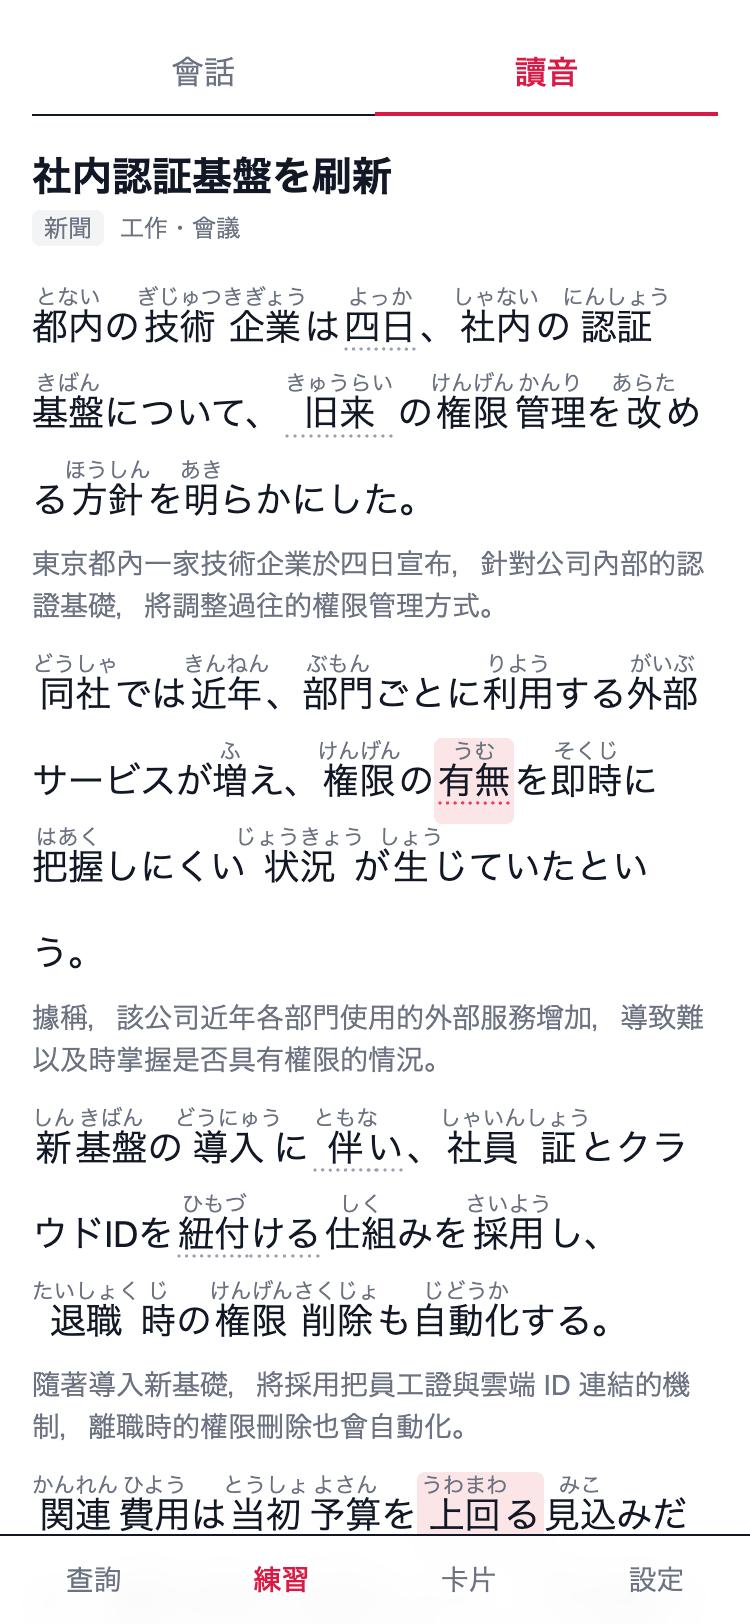
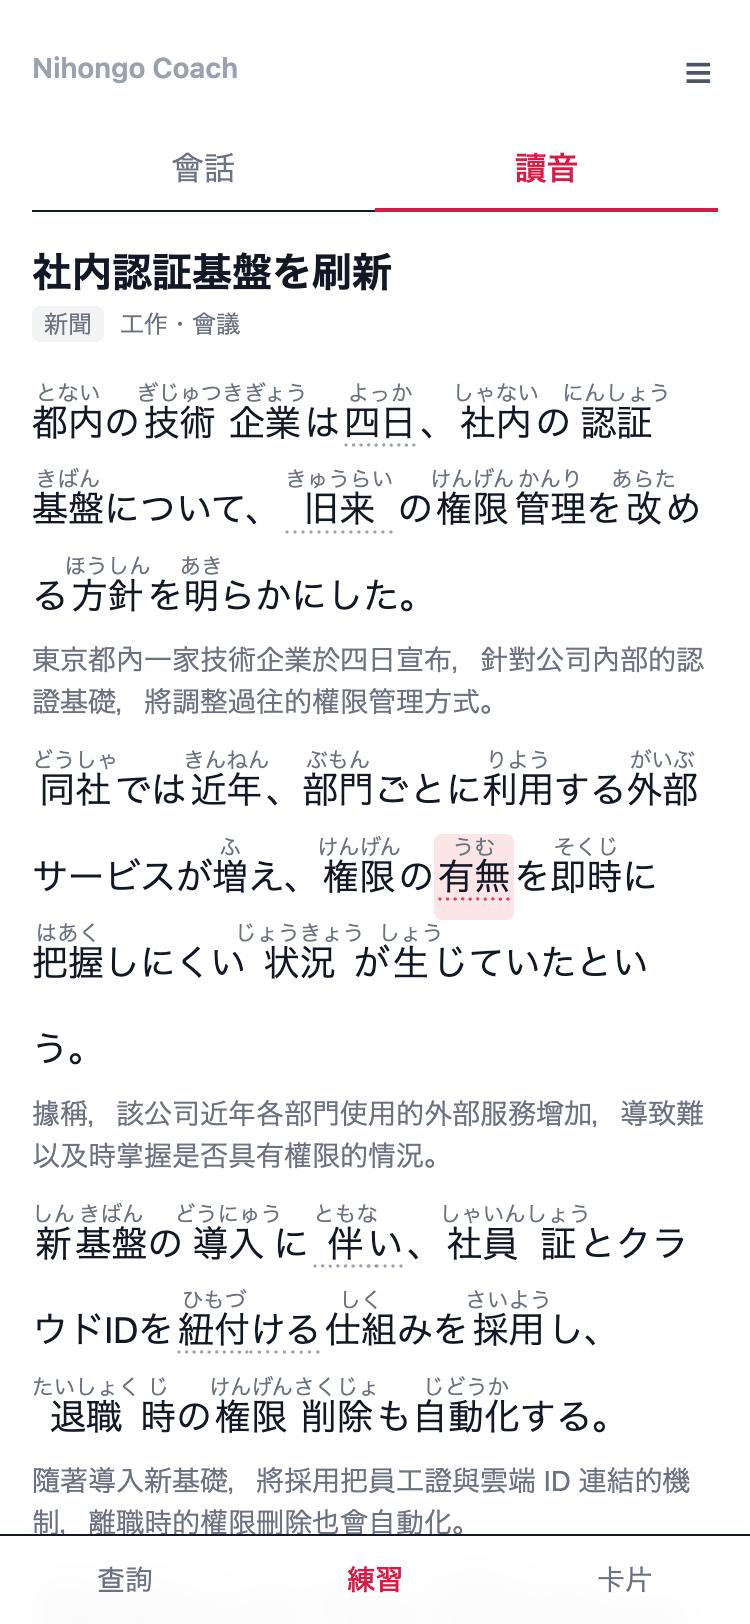
Move 設定 out of the bottom nav into a ☰ menu
The bottom nav keeps only daily tabs (查詢 / 練習 / 卡片). Settings moves
to a ☰ menu in a slim top bar, which closes on navigation or an outside
tap. The 401 message now points there, and README screenshots show the
new nav.

diff --git a/src/components/AppMenu.tsx b/src/components/AppMenu.tsx
@@ -1,0 +1,47 @@
+import { useEffect, useRef, useState } from 'react'
+import { Link, useLocation } from 'react-router'
+
+// Top bar with a ☰ menu for things you rarely need (settings), keeping the bottom nav for daily use.
+export function AppMenu() {
+  const { pathname } = useLocation()
+  // The page the menu was opened on, so navigating anywhere closes it.
+  const [openOn, setOpenOn] = useState<string | null>(null)
+  const open = openOn === pathname
+  const setOpen = (value: boolean) => setOpenOn(value ? pathname : null)
+  const ref = useRef<HTMLDivElement>(null)
+
+  // Close on any tap outside the menu.
+  useEffect(() => {
+    if (!open) return
+    const close = (e: PointerEvent) => {
+      if (!ref.current?.contains(e.target as Node)) setOpenOn(null)
+    }
+    document.addEventListener('pointerdown', close)
+    return () => document.removeEventListener('pointerdown', close)
+  }, [open])
+
+  return (
+    <header className="mb-3 flex items-center justify-between">
+      <Link to="/" className="text-sm font-semibold text-gray-400">
+        Nihongo Coach
+      </Link>
+      <div ref={ref} className="relative">
+        <button
+          onClick={() => setOpen(!open)}
+          aria-label="選單"
+          aria-expanded={open}
+          className="-mr-2 flex h-9 w-9 items-center justify-center rounded-full text-xl text-gray-600 active:bg-gray-100"
+        >
+          ☰
+        </button>
+        {open && (
+          <nav className="absolute right-0 z-20 mt-1 w-40 overflow-hidden rounded-lg border border-gray-200 bg-white py-1 shadow-lg">
+            <Link to="/settings" className="block px-4 py-2.5 text-sm active:bg-gray-100">
+              ⚙ 設定
+            </Link>
+          </nav>
+        )}
+      </div>
+    </header>
+  )
+}

diff --git a/src/App.tsx b/src/App.tsx
@@ -1,5 +1,6 @@
 import { useEffect } from 'react'
 import { BrowserRouter, NavLink, Route, Routes, useLocation } from 'react-router'
+import { AppMenu } from './components/AppMenu'
 import { getToken } from './lib/api'
 import { lastPracticeSection, PRACTICE_SECTIONS, rememberPracticeSection } from './lib/practiceSection'
 import { CardDetail } from './pages/CardDetail'
@@ -37,9 +38,6 @@ function BottomNav() {
       <NavLink to="/cards" className={tab}>
         卡片
       </NavLink>
-      <NavLink to="/settings" className={tab}>
-        設定
-      </NavLink>
     </nav>
   )
 }
@@ -48,6 +46,7 @@ export default function App() {
   return (
     <BrowserRouter>
       <main className="mx-auto max-w-xl px-4 pt-[max(1rem,env(safe-area-inset-top))] pb-24">
+        <AppMenu />
         <Routes>
           <Route path="/" element={<Start />} />
           <Route element={<PracticeLayout />}>

diff --git a/src/lib/api.ts b/src/lib/api.ts
@@ -33,7 +33,7 @@ async function request(path: string, init: RequestInit = {}): Promise<Response> 
     ...init,
     headers: { Authorization: `Bearer ${getToken()}`, ...init.headers },
   })
-  if (res.status === 401) throw new Error('Token 錯誤，請到設定頁重新輸入')
+  if (res.status === 401) throw new Error('Token 錯誤，請從右上角 ☰ → 設定 重新輸入')
   if (!res.ok) {
     const body = await res.json().catch(() => ({}))
     throw new Error(typeof body.error === 'string' ? body.error : `請求失敗 (${res.status})`)

diff --git a/README.zh-TW.md b/README.zh-TW.md
@@ -125,7 +125,7 @@ npm run db:migrate:local
 npm run dev
 ```
 
-打開 http://localhost:5173 ，第一次會要你輸入 `APP_TOKEN`。
+打開 http://localhost:5173 ，第一次會要你輸入 `APP_TOKEN`。之後要改，點右上角 ☰ → 設定。
 
 ### 匯入重音字典
 從 [Kanjium](https://github.com/mifunetoshiro/kanjium) 下載 `data/source_files/raw/accents.txt`，放到 `data/kanjium/accents.txt`（約 10.8 萬筆）：

diff --git a/README.md b/README.md
@@ -128,7 +128,7 @@ npm run db:migrate:local
 npm run dev
 ```
 
-Open http://localhost:5173 and enter your `APP_TOKEN` the first time.
+Open http://localhost:5173 and enter your `APP_TOKEN` the first time. To change it later, open ☰ (top right) → 設定.
 
 ### Import the accent dictionary
 
